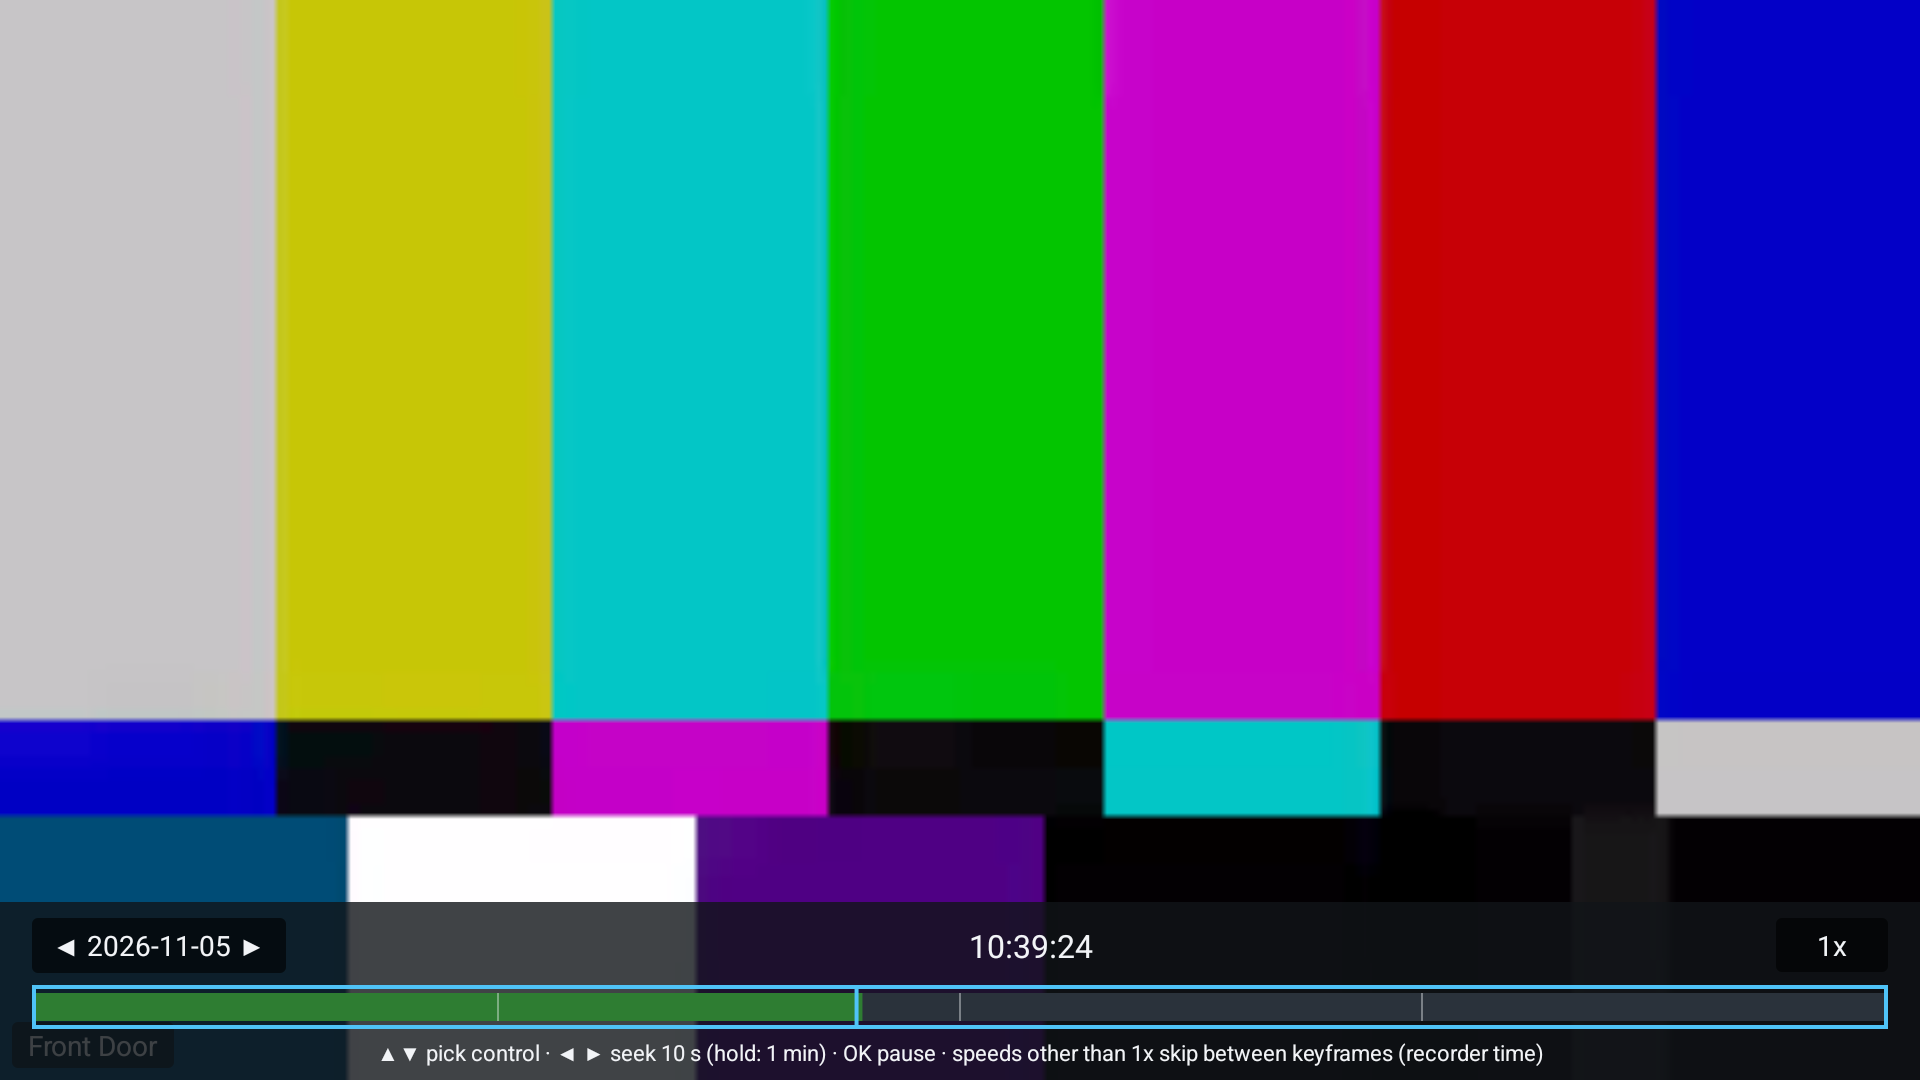
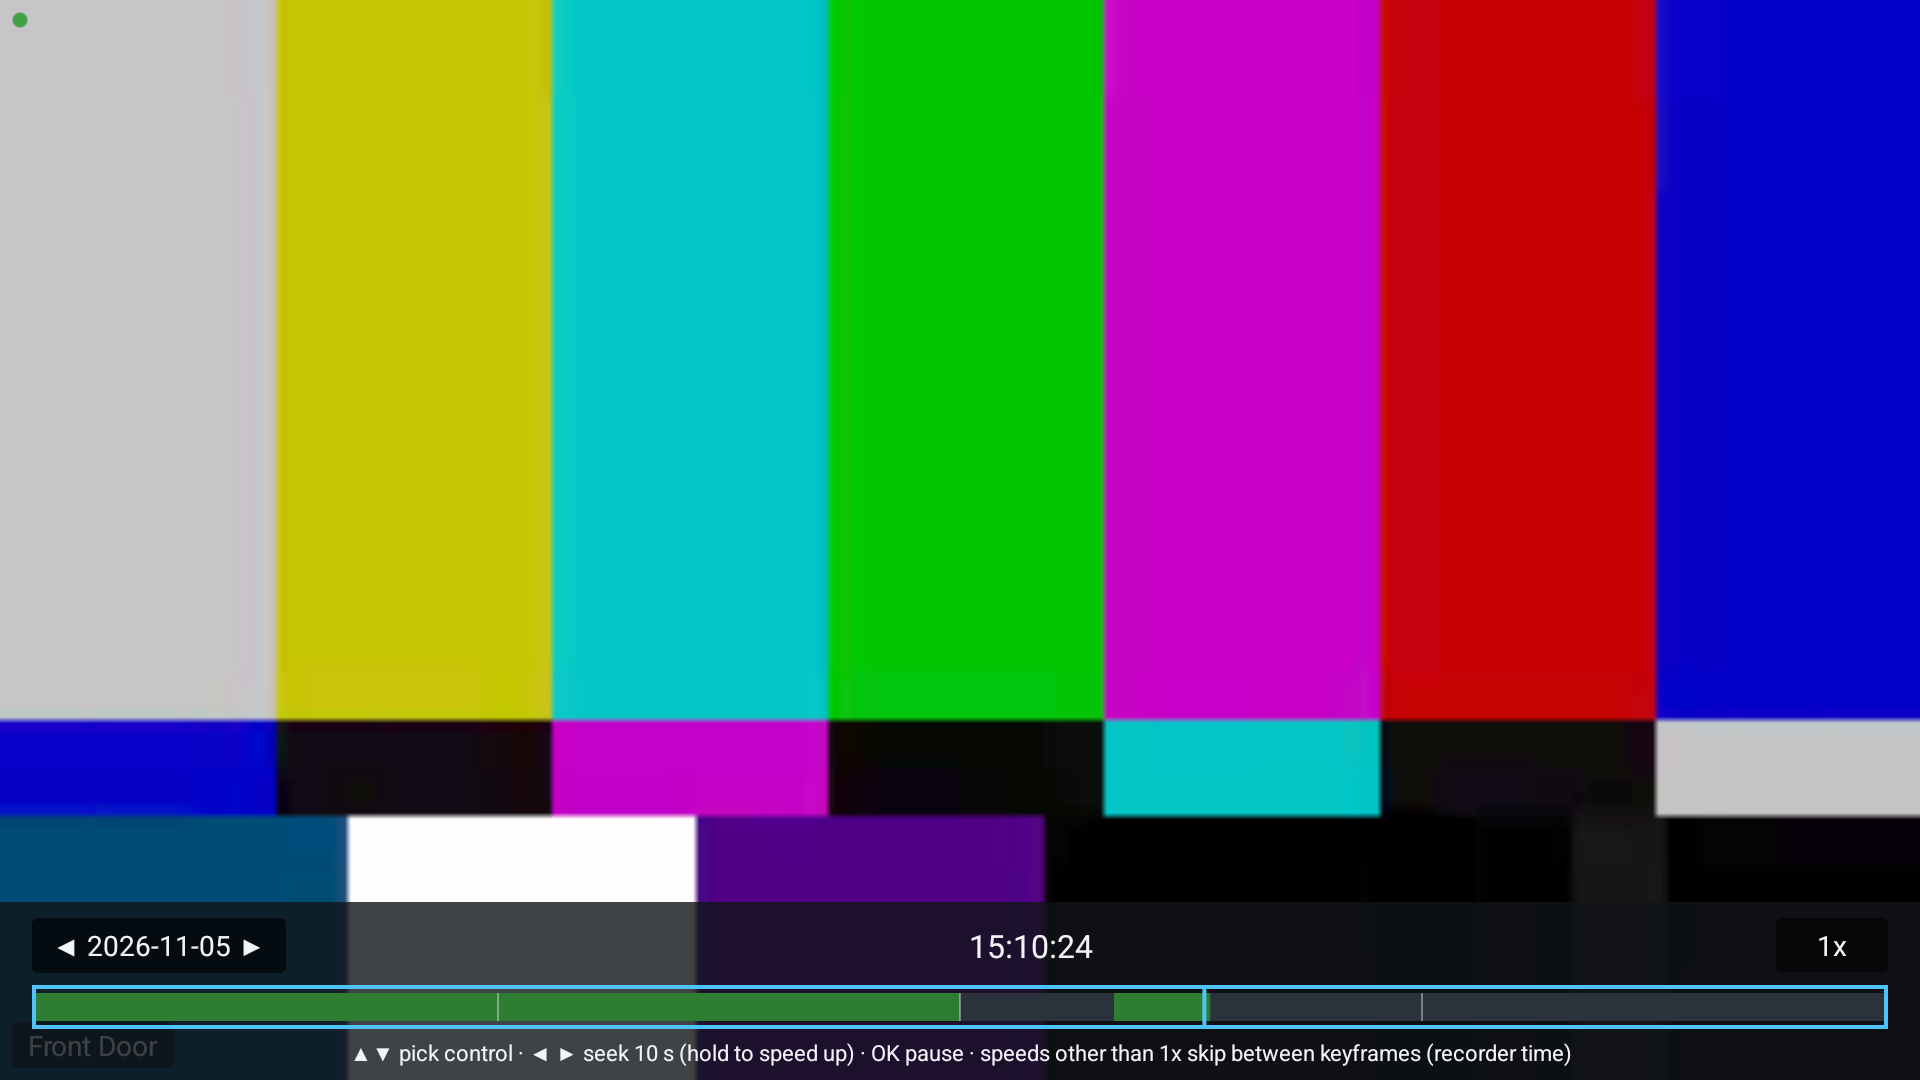
docs: Document round 4 changes
README: the tile menu's Change entry, the live dot, the playback seek
behaviour (10 s steps, accelerating hold, 0.6 s reopen debounce, drag
on a phone), the decryption and SPS notes in "How it works", and a
usage tip about the warm-up dip on a slow TV. CHANGELOG: round-4
additions and a Fixed section for the decoder freeze, the serial in
logs, the leaked dialogs and the seek hold. BUILDING: how to read a
TV logcat session and what a healthy MiTV looks like. FOLLOW-UPS: the
remaining round-4 review items (phone drag, B-frame assumption of the
SPS rewrite, two clocks, log tags, the one-off TV freeze, app CPU and
the cold-start GC dip). Screenshots regenerated from the demo mode on
the TV and phone emulators so the live dot shows.

diff --git a/README.md b/README.md
@@ -45,15 +45,23 @@ repository. See [BUILDING.md](BUILDING.md#demo-mode-and-screenshots).
   1 + 15: one large hero tile with N small ones to its right and below). The menu only offers
   layouts every tile of which would show a camera. Tile positions are remembered per layout and the
   last layout is restored on launch.
-- **Move tiles**: long-press a tile (hold OK, long click or long touch) → *Move*, then push it with
-  the D-pad, drag it with the mouse or your finger; OK drops it, Back cancels. In a 1 + N layout the
-  first position is the hero.
+- **Tile menu**: long-press a tile (hold OK, long click or long touch) for *Move*, *Change* and
+  *Playback*. **Move**: push the tile with the D-pad, drag it with the mouse or your finger; OK drops
+  it, Back cancels. In a 1 + N layout the first position is the hero. **Change**: pick any of your
+  cameras from a list (the current one is highlighted); it replaces this tile's camera, or swaps
+  the two if it was already on the grid. Both are remembered per layout, like the tile order.
+- **Live dot**: a small dot in each tile's corner is green while pictures reach the screen (a frame
+  within the last 2 s, a fresh still for a keyframe-only tile) and red while the tile is connecting,
+  stalled or failed. No text badge.
 - **Fullscreen**: OK on a tile. LEFT / RIGHT (or a swipe on a phone) switches camera, Back returns to
   the same tile. The hint hides after 5 s.
 - **Recorded playback** from the long-press menu: fullscreen video, a 24 h time bar with the recorded
-  spans highlighted, LEFT / RIGHT seek (hold to accelerate), a speed toggle (−10× … +10×; speeds other
-  than 1× step between keyframes, reverse included, because the cloud only plays forward at 1×), and
-  a date chip. Times are the recorder's own clock.
+  spans highlighted, a speed toggle (−10× … +10×; speeds other than 1× step between keyframes,
+  reverse included, because the cloud only plays forward at 1×), and a date chip. LEFT / RIGHT seek
+  10 s; hold the key and the steps grow 10 s → 30 s → 1 min → 5 min → 15 min, resetting when you let
+  go. The time label follows every press at once; the video reopens 0.6 s after the last one, so a
+  burst of presses or a long hold costs one reconnect. On a phone, drag the bar: the finger's
+  position is the time. Times are the recorder's own clock.
 - **Hidden top bar on TV**: any key shows it, it hides 5 s after the last key, and it never steals
   focus. UP from the top row of tiles reaches its layout and settings buttons. On a phone the bar is
   always on screen (top in portrait, left edge in landscape) because there is no D-pad to summon it.
@@ -67,7 +75,9 @@ repository. See [BUILDING.md](BUILDING.md#demo-mode-and-screenshots).
 - **Built for weak TVs**: hardware decoders for the two tiles you are looking at (focused or hero),
   software decoders for the rest, and a shared keyframe-only decoder pool for tiles beyond what the
   device can decode live. The live budget adapts to RAM, cores and measured decode lag, and tiles
-  are promoted back when headroom returns. A failed tile dims and shows a single *Retry* button.
+  are promoted back when headroom returns. A decoder that stops producing pictures is caught within
+  about 1.5 s and rebuilt without costing the tile its live slot. A failed tile dims and shows a
+  single *Retry* button.
 - **Clean lifecycle**: every stream, socket and decoder is released in `onStop`; there are no
   services, jobs or alarms, so the app costs nothing when it is not on screen.
 - **Settings**: layout, visible cameras and their order, hero camera, fullscreen stream quality
@@ -87,7 +97,10 @@ repository. See [BUILDING.md](BUILDING.md#demo-mode-and-screenshots).
    session, and connect over plain TCP to the relay (`ysproto://` framing). Live streams come as
    RTP or MPEG-PS; recordings as MPEG-PS from `/v3/streaming/records` spans.
 4. **Decrypt on the device**: each H.264/H.265 NAL body is AES-ECB encrypted with your verification
-   code as the key; the three key variants seen in the wild are detected from the parameter sets.
+   code as the key; the three key variants seen in the wild are detected from the parameter sets,
+   and which NAL types a recorder leaves in the clear is learnt from the stream (this DVR encrypts
+   only keyframes, parameter sets and long-term-reference P-frames). The H.264 SPS is rewritten to
+   declare no frame reordering, so software decoders show each picture as soon as it is decoded.
 5. **Decode with `MediaCodec`**, feeding access units straight to the codec. At most two hardware
    decoders are used (the focused and hero tiles); the rest are software, or keyframe-only stills
    from a shared pool when the device runs out of CPU.
@@ -116,6 +129,10 @@ Download `HikViewer-<version>-universal.apk` from the
   (*Record → Parameters → Sub-stream*); software decoding costs about a fifth of a core per
   960 × 480 @ 12 fps tile, so halving the pixels and the frame rate is what lets a 1 GB TV keep every
   tile live instead of falling back to keyframe stills.
+- **The first minutes on a slow TV**: right after launch a weak TV can be busy enough that the app
+  temporarily shows one or two tiles as 1 fps stills (their dot stays green while stills arrive);
+  they return to live video within a couple of minutes once the device settles. Fewer visible
+  cameras or a lower sub-stream frame rate on the recorder removes the dip.
 - **Region sets the country code**: pick your region on the sign-in screen and type the mobile number
   without the country code (India → 91 is added for you). Type a leading `+` to send exactly what you
   typed, or your e-mail address if the account uses one.

diff --git a/docs/FOLLOW-UPS.md b/docs/FOLLOW-UPS.md
@@ -1,8 +1,8 @@
 # Follow-ups
 
 Known gaps, open questions and ideas that were weighed and set aside, with the reason each one is
-still here. Items come from the round-3 code review and the CPU work; none of them blocks a release.
-Open an issue before picking one up so the discussion has a home.
+still here. Items come from the round-3 and round-4 code reviews and the CPU work; none of them
+blocks a release. Open an issue before picking one up so the discussion has a home.
 
 ## Needs a product decision
 
@@ -18,6 +18,13 @@ Open an issue before picking one up so the discussion has a home.
   proportionally; the app's private footprint in that state is about 0.6 MB of data plus 10 MB of
   code, and it holds no sockets, codecs, views or activities. Nothing in the app can shrink the shared
   part. Either accept the measured outcome or lower the code size with a tighter R8 configuration.
+
+- **Phone drag on the playback bar does not accelerate.** Round 4 asked for the accelerating hold
+  "or the phone's drag". A drag is an absolute scrubber (the finger's position *is* the time) and
+  the debounce applies to it, but it does not step 10 s → 15 min like a held key, because a finger
+  already covers the whole day in one gesture. If a relative, accelerating drag is wanted anyway
+  (e.g. a slow drag near the thumb for fine seeking), `TimeBarView` has the press/drag/release hooks
+  for it.
 
 ## Needs a real TV
 
@@ -38,6 +45,24 @@ Open an issue before picking one up so the discussion has a home.
   43 % of one core with 8 live software tiles (budget ≤ 150 % / ≤ 40 %). The fixes removed two churn
   sources (surface switching, hardware retries every 5 s) but the TV has not been re-measured.
 
+- **A 4-minute TV-wide freeze seen once.** During round 4 (12:28, first install of the live-dot build)
+  the MiTV stopped logging from every process for four minutes right after launch; `lowmemorykiller`
+  had just killed nine cached processes and the load average was 67 afterwards. The app survived and
+  its streams reconnected; the freeze was not reproduced in the following runs. Memory headroom with
+  the grid up is ~90–120 MB free. If it recurs, capture `dmesg`/`lowmemorykiller` lines around it.
+- **Cold start on the MiTV demotes a tile or two for a couple of minutes.** In the round-4 final run
+  (release build, 12 cameras in 4 × 3, 8 live) the first three minutes after a fresh process start
+  showed back-to-back ART concurrent GCs of 1–3 s each (heap 17 → 20 MB, ~2.5 MB/s allocated by the
+  demux/decrypt pipeline: a `ByteArray` per NAL plus a copy per encrypted NAL) on a saturated 4×A55;
+  three software decoders fell 15–19 pictures behind at once, the budget demoted to 4 live and
+  promoted back to 8 within two minutes, after which GCs were 80–440 ms and nothing stalled for the
+  rest of the run. Working as designed, but a pooled NAL buffer (or decrypting in place also for
+  TYPE_HINT, which currently copies) would cut the allocation rate and likely the warm-up dip.
+- **App CPU with many software tiles.** With 7 software-decoded tiles the app process itself (not
+  `media.codec`) ran at 60–100 % of one core on the 4×A55 TV: the decrypt/demux pipeline scales with
+  tiles. The round-3 CPU notes list what was tried; the next candidates are the AES calls per NAL
+  (one `Cipher.doFinal` per 16-byte probe block plus one per body) and the RTP reassembly copies.
+
 ## Code and tests
 
 - **`GridActivity.updateLiveCount` recounts every player on each tile state change** (O(n²) over 16
@@ -51,6 +76,20 @@ Open an issue before picking one up so the discussion has a home.
 - **Phone Espresso suite is thin.** `PhoneNavigationTest` has two tests: the persistent bar, and the
   portrait camera screen with a swipe and a bar scrub. The speed toggle, the date chip and landscape
   on a phone are only covered by Robolectric.
+- **`H264SpsRewriter` assumes no B-frames.** It declares `max_num_reorder_frames = 0` for every
+  H.264 stream, which is true for this recorder (P-frames only, order count growing within a GOP;
+  ffmpeg frame md5s are identical before and after) and what stops libavc holding ten pictures. A
+  recorder that emits B-frames would display them out of order and nothing would say why. The SPS
+  alone cannot tell; a guard would have to watch the order count of the first slices of a GOP and
+  skip the rewrite when it ever goes backwards.
+- **Two clocks in the player stack.** `PlaybackViewModel` ticks with `System.nanoTime()` (so the
+  render timestamp handed to `MediaCodec` is on the same clock SurfaceFlinger uses) while the rest of
+  the view model runs on `uptimeMillis()`. Giving `TilePlayer.tick` the injected clock would make the
+  tests and the code read from one time source.
+- **Small leftovers from the round-4 review.** `SeekController.isHolding`/`reset()` are only used by
+  tests; three log tags (`HikViewer`, `TilePlayer`, `LiveBudget`) cover one subsystem, one prefix
+  would make a TV logcat easier to grep; a tile dropped from the layout keeps its `onSurface` hook
+  until it is re-bound (harmless, the player is stopped).
 - **Verification dialog over the grid.** While the "video encryption password" dialog is open the
   tiles underneath keep decoding. The dialog is up for seconds, so the saving was judged not worth a
   covered-tile signal from the UI into the player; revisit if the dialog ever stays open longer.

diff --git a/CHANGELOG.md b/CHANGELOG.md
@@ -15,12 +15,17 @@ All notable changes to HikViewer are recorded here. The format follows
 - Camera grid of the account's channels with layouts Auto, 3 × 3, 4 × 3, 4 × 4 and 1 + 5 / 1 + 7 /
   1 + 9 / 1 + 11 / 1 + 15 (hero layouts); the menu lists only layouts every tile of which has a
   camera. Tile positions are kept per layout, the last layout is restored on launch.
-- Long-press menu on a tile: *Move* (D-pad, mouse drag or touch drag; OK drops, Back cancels) and
-  *Playback*.
+- Long-press menu on a tile: *Move* (D-pad, mouse drag or touch drag; OK drops, Back cancels),
+  *Change* (a focusable list of your cameras; the pick replaces this tile's camera or swaps the two
+  if it was already on the grid, remembered per layout like Move) and *Playback*.
+- Live dot in a corner of every tile: green while pictures reach the screen (a decoded frame within
+  2 s, or a freshly rendered still on a keyframe-only tile), red while connecting, stalled or failed.
 - Fullscreen view with LEFT / RIGHT (TV) or swipe (phone) to switch camera and a self-hiding hint.
-- Recorded playback from the cloud: 24 h time bar with recorded spans, LEFT / RIGHT seek with
-  hold-to-accelerate, speed toggle −10× … +10× (speeds other than 1× step between keyframes), date
-  chip, pause. Times are the recorder's clock.
+- Recorded playback from the cloud: 24 h time bar with recorded spans, speed toggle −10× … +10×
+  (speeds other than 1× step between keyframes), date chip, pause. LEFT / RIGHT seek 10 s and a held
+  key accelerates 10 s → 30 s → 1 min → 5 min → 15 min (reset on release); the time label moves at
+  once and the stream reopens 600 ms after the last seek input, so a burst of presses, a hold or a
+  drag of the bar on a phone costs one reconnect. Times are the recorder's clock.
 - Hidden top bar on TV (any key shows it, hides after 5 s, never takes focus); persistent bar on
   phones (top in portrait, left edge in landscape).
 - Phone portrait camera screen: live video on top, the playback timeline, speed and date below.
@@ -29,10 +34,32 @@ All notable changes to HikViewer are recorded here. The format follows
 - On-device decryption of encrypted streams (AES-ECB per NAL, three key variants detected
   automatically). The verification code is checked locally against the recorder's `MD5(MD5(code))`,
   stored in encrypted preferences and never asked again unless the recorder's code changes.
+
+### Fixed
+
+- Software-decoded tiles froze for a few seconds about once a minute on the MiTV, and in earlier
+  builds were then demoted to keyframe stills one after another. The cause was in the decryptor:
+  with the "type hint" encryption variant a clear P-slice is mistaken for an encrypted one once in
+  256 and decrypted into garbage, which hardware decoders conceal but the TV's software H.264
+  decoder answers by producing no more output. The decryptor now learns which NAL header classes a
+  recorder encrypts and leaves the others alone (0 garbled slices in 5759 against the real account,
+  9 in 3599 before).
+- Per-tile diagnostics in logcat (`HikViewer`, `TilePlayer` tags) name channels by number only; the
+  recorder's serial no longer appears in any log line.
+- Rotating a phone with the camera picker or the verification-code dialog open no longer leaks the
+  dialog window.
+- A seek key held while the focus moved to the date chip or the speed button no longer keeps its
+  accelerated step for the next press on the bar.
 - Adaptive decoding for weak TVs: at most two hardware decoders (focused and hero tiles), software
   decoders for the rest, a shared keyframe-only pool for tiles beyond the live budget, which adapts
-  to RAM, cores and measured decode lag. Hardware refusals back off exponentially; a failed tile
-  dims and offers *Retry*.
+  to RAM, cores and measured decode lag. Only the tiles the layout shows are streamed. Hardware
+  refusals back off exponentially; a `configure` refused while the previous codec still holds the
+  surface is retried at the next keyframes; a failed tile dims and offers *Retry*.
+- Decoder watchdog: a decoder that accepts pictures but produces none is caught after ten swallowed
+  pictures and 1.2 s (at any frame rate, 6 to 12 fps) instead of 3 s, and rebuilt without counting
+  as decode lag, so a wedged software decoder never demotes its tile to keyframe stills.
+- The H.264 SPS is rewritten to declare no frame reordering (`max_num_reorder_frames = 0`), so
+  software decoders show each picture as soon as it is decoded instead of holding ten of them.
 - Clean lifecycle: every stream, socket and decoder is released in `onStop`; no services, jobs or
   alarms.
 - Universal APK (no ABI splits), Android TV and phone launchers in one build, `minSdk` 26.

diff --git a/BUILDING.md b/BUILDING.md
@@ -178,6 +178,15 @@ stills. Twenty seconds after HOME the process uses 0 % CPU, holds no sockets and
 Back it is a plain cached process of roughly 45 MB PSS, 35 MB of which are shared framework pages.
 Check with `adb shell dumpsys meminfo com.itsluminous.hikviewer | grep "TOTAL PSS"`.
 
+Reading a TV session: the release build logs one INFO line per tile every 10 s under the
+`HikViewer` tag (`chN mode=… state=… in= out= queued= fps= created=`) plus the live budget's
+`live limit=`, and the `TilePlayer` / `LiveBudget` / `KeyframePool` tags carry the events
+(`decoder stalled`, `stream lost`, `live budget: demote|promote`, `codec #N`). Channels are named by
+number only; no serial or session id is ever logged. A healthy MiTV (Android 10, 4×A55) shows every
+live tile at the recorder's frame rate with `in − out ≤ 5`, `queued=0`, no `decoder stalled` after the
+first minutes, `media.codec`/OMX around 150–200 % and the app 60–90 % of one core with 7 software tiles,
+and about 85 MB PSS.
+
 ## Release signing
 
 `assembleRelease` looks for signing material in this order and falls back to the debug keystore when
